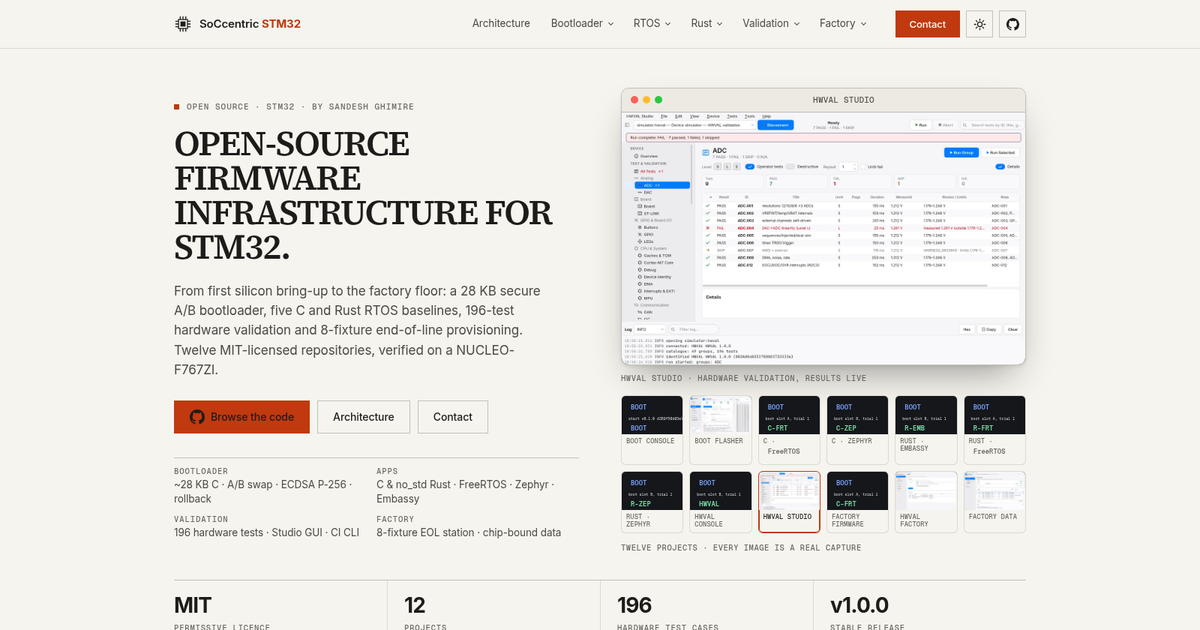
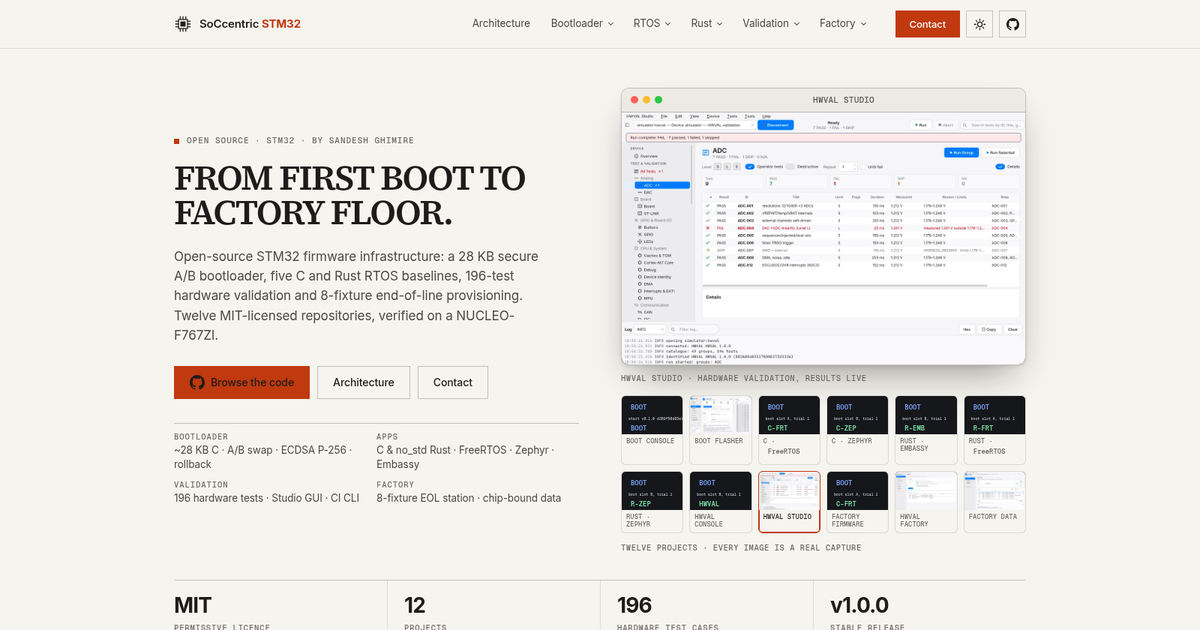
Update hero headline to 'From first boot to factory floor.' and refresh og.png

Changed region(s): [[0.1233, 0.2111, 0.4625, 0.8746], [0.1542, 0.1508, 0.3392, 0.181]]

diff --git a/index.html b/index.html
@@ -186,8 +186,8 @@
   <div class="wrap hero-grid">
     <div class="hero-copy">
       <p class="eyebrow"><span class="pip"></span>Open source · STM32 · By Sandesh Ghimire</p>
-      <h1>Open-source firmware infrastructure for STM32.</h1>
-      <p class="lead">From first silicon bring-up to the factory floor: a 28 KB secure A/B bootloader, five C and Rust RTOS baselines, 196-test hardware validation and 8-fixture end-of-line provisioning. Twelve MIT-licensed repositories, verified on a NUCLEO-F767ZI.</p>
+      <h1>From first boot to factory floor.</h1>
+      <p class="lead">Open-source STM32 firmware infrastructure: a 28 KB secure A/B bootloader, five C and Rust RTOS baselines, 196-test hardware validation and 8-fixture end-of-line provisioning. Twelve MIT-licensed repositories, verified on a NUCLEO-F767ZI.</p>
       <div class="hero-cta">
         <a class="btn btn-accent gh-link" href="https://github.com/soccentric-stm32" target="_blank" rel="noopener" aria-label="Browse the code on GitHub" title="Browse the code on GitHub"><svg aria-hidden="true" focusable="false"><use href="#gh-icon"></use></svg><span>Browse the code</span></a>
         <a class="btn btn-ghost" href="#architecture" data-flash="architecture">Architecture</a>
